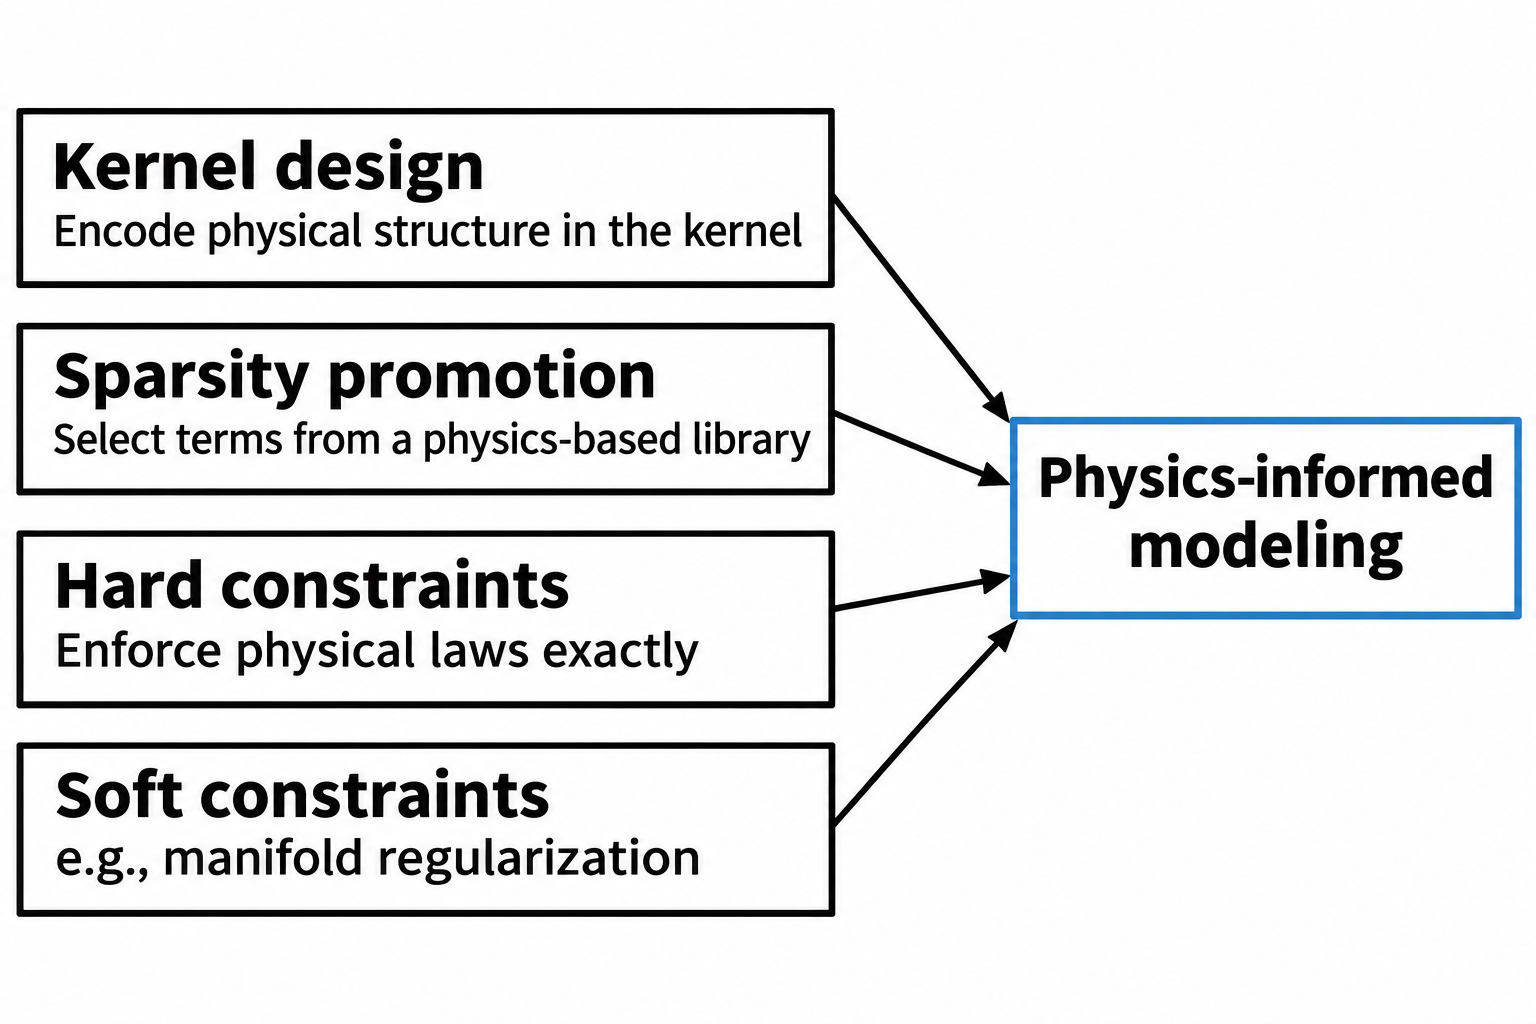
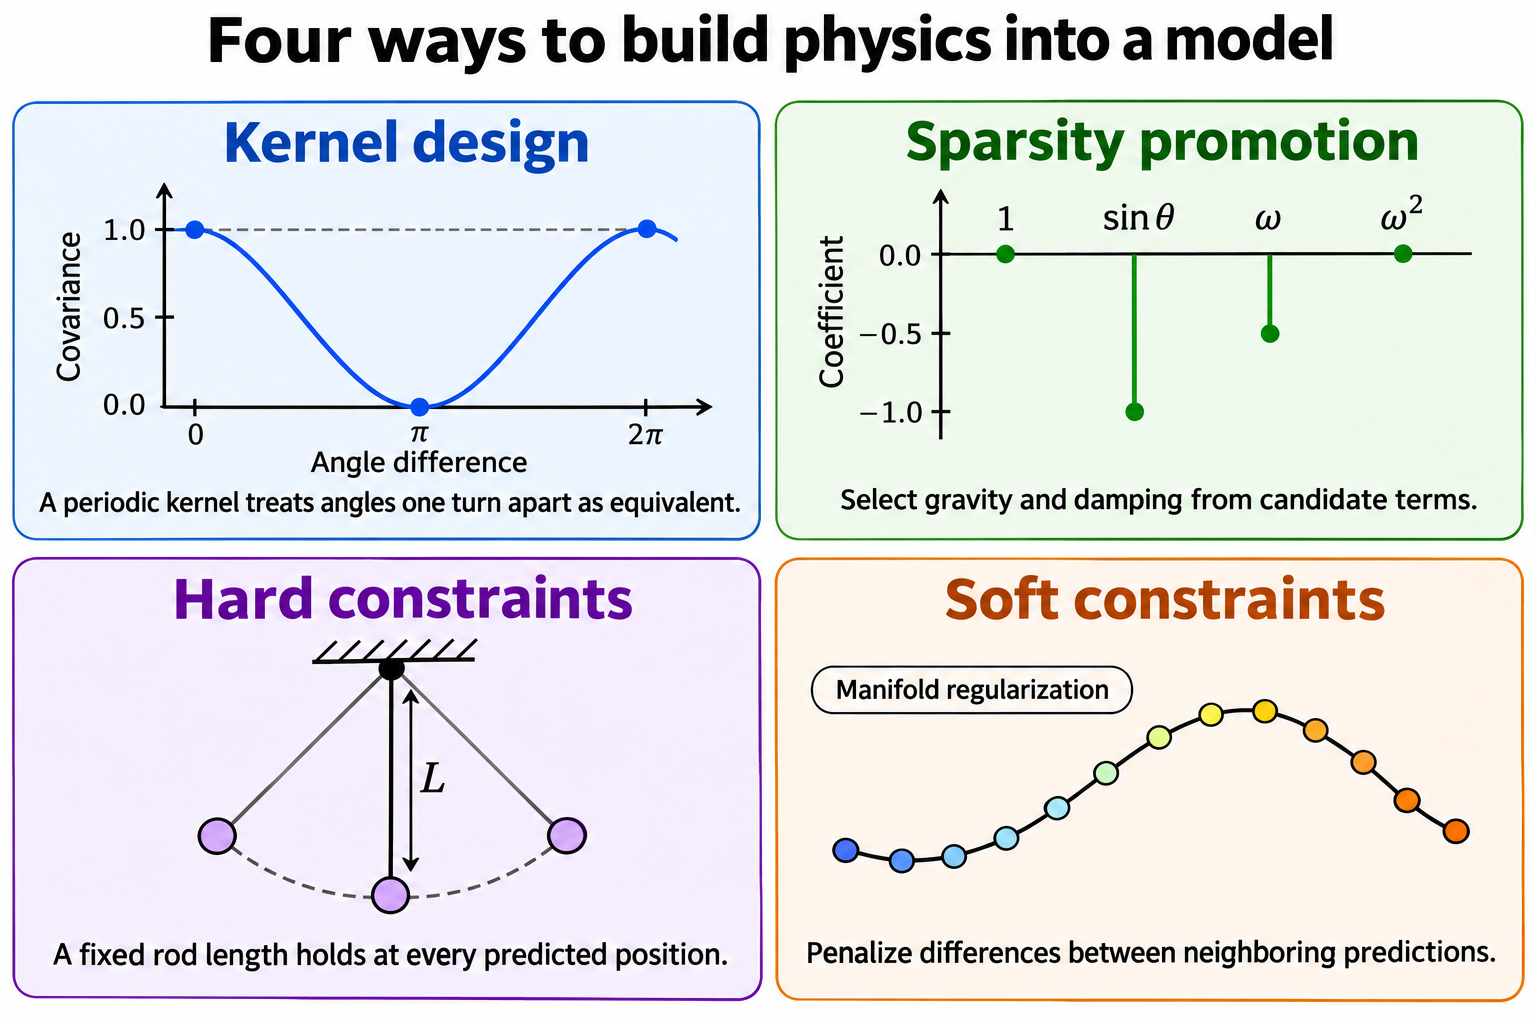
Illustrate physics-informed modeling and online controller adaptation

diff --git a/research.html b/research.html
@@ -39,11 +39,11 @@ Guangdong, China</p>
 </section>
 <section class="section research-topic" id="control-and-decision-making">
 <h2><a href="research-control-and-decision-making.html">Data-driven control and decision-making</a></h2>
-<div class="research-grid"><a class="research-figure" href="research-control-and-decision-making.html" aria-label="Data-driven control and decision-making"><img src="assets/research/data-driven-control-block-diagram.png" alt="A data-driven controller uses the reference, past input-output data, and measured output to set the control input to the system." width="1920" height="819" loading="lazy"></a><div class="research-description"><p>Data-driven model predictive control, stochastic adaptive control, iterative learning control, online decision-making, and reinforcement learning.</p><p class="research-more"><a href="research-control-and-decision-making.html">Related publications <span aria-hidden="true">→</span></a></p></div></div>
+<div class="research-grid"><a class="research-figure" href="research-control-and-decision-making.html" aria-label="Data-driven control and decision-making"><img src="assets/research/data-driven-control-block-diagram.png?v=online-adaptation" alt="Past data informs the initial controller design. Measured output feeds back to the controller, and an online adaptation step can use recent control inputs and measured outputs to update the control law." width="1920" height="819" loading="lazy"></a><div class="research-description"><p>Data-driven model predictive control, stochastic adaptive control, iterative learning control, online decision-making, and reinforcement learning.</p><p class="research-more"><a href="research-control-and-decision-making.html">Related publications <span aria-hidden="true">→</span></a></p></div></div>
 </section>
 <section class="section research-topic" id="physics-informed-modeling">
 <h2><a href="research-physics-informed-modeling.html">Physics-informed modeling</a></h2>
-<div class="research-grid"><a class="research-figure" href="research-physics-informed-modeling.html" aria-label="Physics-informed modeling"><img src="assets/research/physics-informed-modeling-approaches.png" alt="Four routes to physics-informed modeling: encode physical structure in a kernel, use sparsity promotion to select terms from a physics-based library, enforce physical laws as hard constraints, or use soft constraints such as manifold regularization." width="1536" height="1024" loading="lazy"></a><div class="research-description"><p>Physics-informed kernel methods, Gaussian process regression, Bayesian manifold regularization, deep learning, and sparsity-promoting methods.</p><p class="research-more"><a href="research-physics-informed-modeling.html">Related publications <span aria-hidden="true">→</span></a></p></div></div>
+<div class="research-grid"><a class="research-figure" href="research-physics-informed-modeling.html" aria-label="Physics-informed modeling"><img src="assets/research/physics-informed-modeling-approaches.png?v=illustrated-examples" alt="Four illustrated examples: a periodic kernel gives equal covariance at zero and one full turn, sparse term selection retains gravity and damping, a rigid pendulum enforces fixed length, and manifold regularization penalizes differences between neighboring predictions." width="1536" height="1024" loading="lazy"></a><div class="research-description"><p>Physics-informed kernel methods, Gaussian process regression, Bayesian manifold regularization, deep learning, and sparsity-promoting methods.</p><p class="research-more"><a href="research-physics-informed-modeling.html">Related publications <span aria-hidden="true">→</span></a></p></div></div>
 </section>
 <section class="section research-topic" id="statistical-theory">
 <h2><a href="research-statistical-theory.html">Statistical theory</a></h2>

diff --git a/research-physics-informed-modeling.html b/research-physics-informed-modeling.html
@@ -33,7 +33,7 @@ Guangdong, China</p>
 </aside>
 <main id="main">
 <div class="page-heading"><nav class="links" aria-label="Breadcrumb"><a href="research.html">Research</a><span aria-hidden="true">/</span><span>Physics-informed modeling</span></nav><h1>Physics-informed modeling</h1><p>Physics-informed kernel methods, Gaussian process regression, Bayesian manifold regularization, deep learning, and sparsity-promoting methods.</p></div>
-<div class="topic-intro"><figure class="research-figure"><img src="assets/research/physics-informed-modeling-approaches.png" alt="Four routes to physics-informed modeling: encode physical structure in a kernel, use sparsity promotion to select terms from a physics-based library, enforce physical laws as hard constraints, or use soft constraints such as manifold regularization." width="1536" height="1024" loading="lazy"></figure></div>
+<div class="topic-intro"><figure class="research-figure"><a href="assets/research/physics-informed-modeling-approaches.png?v=illustrated-examples" title="Open full-size illustration"><img src="assets/research/physics-informed-modeling-approaches.png?v=illustrated-examples" alt="Four illustrated examples: a periodic kernel gives equal covariance at zero and one full turn, sparse term selection retains gravity and damping, a rigid pendulum enforces fixed length, and manifold regularization penalizes differences between neighboring predictions." width="1536" height="1024" loading="lazy"></a></figure></div>
 <section class="section" id="journals">
 <h2>Journal papers</h2>
 <ol class="rows numbered-list">

diff --git a/research-control-and-decision-making.html b/research-control-and-decision-making.html
@@ -33,7 +33,7 @@ Guangdong, China</p>
 </aside>
 <main id="main">
 <div class="page-heading"><nav class="links" aria-label="Breadcrumb"><a href="research.html">Research</a><span aria-hidden="true">/</span><span>Data-driven control and decision-making</span></nav><h1>Data-driven control and decision-making</h1><p>Data-driven model predictive control, stochastic adaptive control, iterative learning control, online decision-making, and reinforcement learning.</p></div>
-<div class="topic-intro"><figure class="research-figure"><img src="assets/research/data-driven-control-block-diagram.png" alt="A data-driven controller uses the reference, past input-output data, and measured output to set the control input to the system." width="1920" height="819" loading="lazy"></figure></div>
+<div class="topic-intro"><figure class="research-figure"><a href="assets/research/data-driven-control-block-diagram.png?v=online-adaptation" title="Open full-size block diagram"><img src="assets/research/data-driven-control-block-diagram.png?v=online-adaptation" alt="Past data informs the initial controller design. Measured output feeds back to the controller, and an online adaptation step can use recent control inputs and measured outputs to update the control law." width="1920" height="819" loading="lazy"></a></figure></div>
 <section class="section" id="journals">
 <h2>Journal papers</h2>
 <ol class="rows numbered-list">
